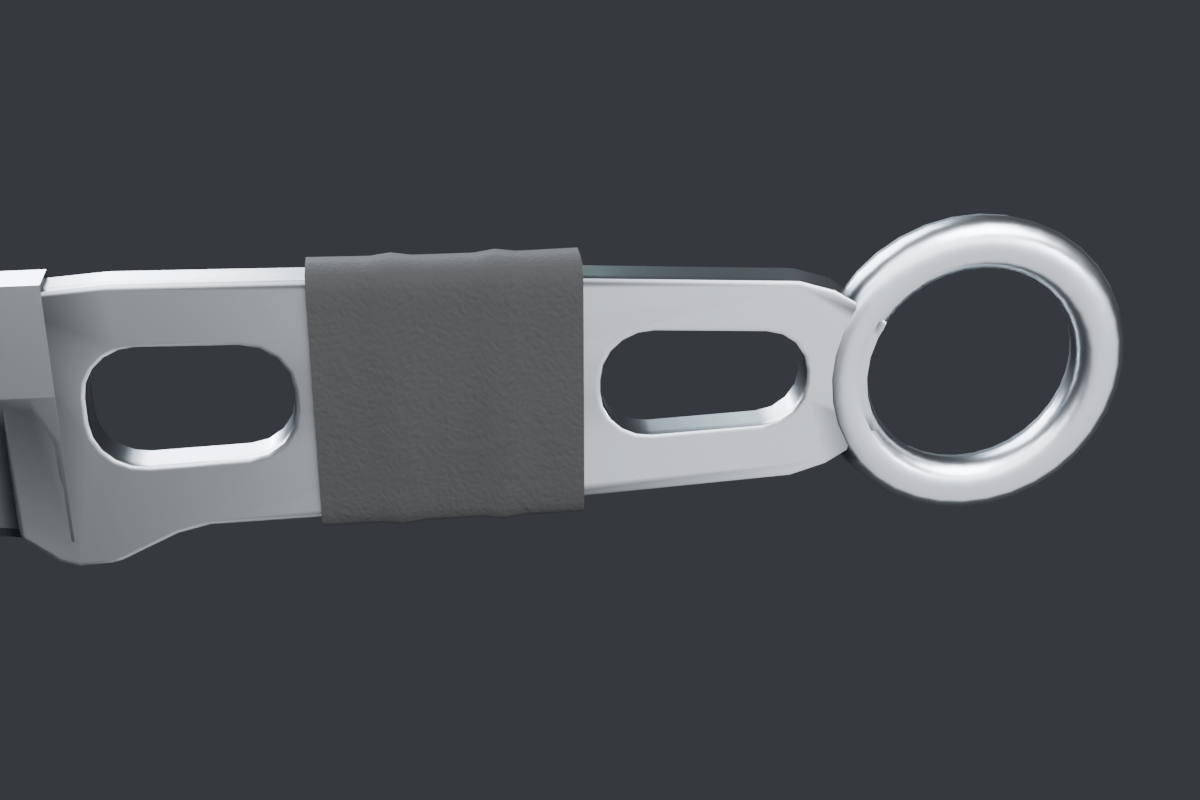
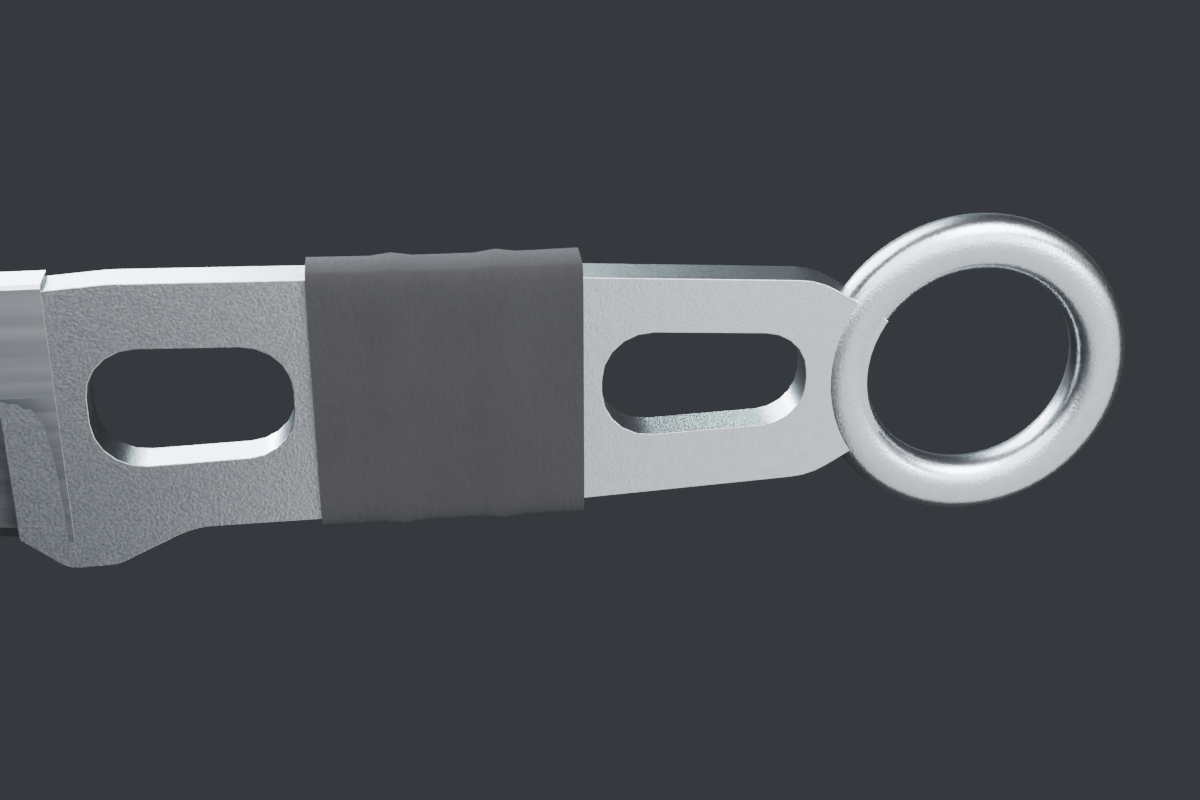
docs(knives): baked textures, lod1, budgets and 1440p close-ups
the contract's budget goes to 15k triangles and 1.5 MB with an optional <id>_lod1.glb; models ship colour, normal and orm maps on a 0..1 uv0 with the steel normal map on knife_blade. new contact sheets, 20 blender close-ups and three.js shots with finishes.

diff --git a/docs/assets/knives.md b/docs/assets/knives.md
@@ -4,22 +4,28 @@ All 20 knives in `public/knives/<id>.glb` are original geometry built by
 committed Blender scripts. Nothing is imported: no Valve or Counter-Strike
 meshes, textures or screenshots were downloaded or used. Each knife follows the
 real-world knife CS2 patterned it on (listed below) plus CS2's published item
-descriptions, the same way the firearms follow real guns. The only texture maps
-are small generated ones (pebble, checkering, G10 grain, paracord braid, wood
-grain), all made with numpy in `klib.py`.
+descriptions, the same way the firearms follow real guns. Every texture is
+baked by the build script from procedural shaders; no texture library or photo
+is used.
 
-The files follow [the knife asset contract](knife-contract.md). The runtime
-still builds the old procedural knives (`src/cosmetics/ProceduralKnife.ts`)
-until the viewmodel switches over.
+The files follow [the knife asset contract](knife-contract.md). Each knife
+ships as `<id>.glb` (LOD0, first person) and `<id>_lod1.glb` (about 40% of the
+triangles and 512 px textures, for third person) with the same nodes, sockets
+and hints.
 
 ## Rebuild
 
 ```bash
-# all 20 raw glbs into .blender-tmp/knives (about 7 s on the M5, ao bake included)
+# all 20 raw glbs (lod0 and lod1) into .blender-tmp/knives, about 5 min on the M5 (texture bakes on the gpu)
 blender -b --factory-startup --python-exit-code 1 -P tools/blender/knives/build_knives.py
-# or a few: ... build_knives.py -- karambit talon [--no-ao] [--quick]
-npx tsx tools/blender/knives/optimize_knives.ts          # -> public/knives/<id>.glb (meshopt, webp 512)
+# or a few: ... build_knives.py -- karambit talon [--no-bake] [--no-lod] [--quick]
+npx tsx tools/blender/knives/optimize_knives.ts          # -> public/knives/<id>.glb (webp up to 2048) and <id>_lod1.glb (512)
 npx vitest run tools/assets/knives.test.ts
+
+# 2560x1440 close-ups: blender, and three.js through the game's loader and tone mapping
+blender -b --factory-startup --python-exit-code 1 -P tools/blender/knives/render_knives.py -- \
+    .blender-tmp/knives .blender-tmp/knives/hires hires --samples 64
+#   /tools/knife-model-preview.html?knife=<id>&view=34|side|back|handle|blade&lod=1&finish=<id> on the dev server
 
 # preview sheets (tiles at one scale, a few minutes at 48 samples on the M5)
 blender -b --factory-startup --python-exit-code 1 -P tools/blender/knives/render_knives.py -- \
@@ -27,8 +33,9 @@ blender -b --factory-startup --python-exit-code 1 -P tools/blender/knives/render
 node tools/blender/weapons/compress_previews.mjs .blender-tmp/knives/final docs/screenshots/knives 1800
 ```
 
-`--quick` skips the bake and writes a side and 3/4 render per knife to
-`.blender-tmp/knives/quick/`. The export is deterministic.
+`--no-bake` exports plain materials (for geometry work, seconds instead of
+minutes); `--quick` also skips LOD1 and writes a side and 3/4 render per knife
+to `.blender-tmp/knives/quick/`.
 
 ## How they are built
 
@@ -66,14 +73,37 @@ node tools/blender/weapons/compress_previews.mjs .blender-tmp/knives/final docs/
   above the handle's bottom at every x. The backspacer is then carved to clear
   the closed edge (`back_line()`). The closed tang and any flipper tab stick out
   at the pivot end, as on the real knives.
-- **Materials** are the five contract names. Blades are satin steel with a
-  brighter polished edge; the finish system replaces them anyway.
-- **Ambient occlusion** is baked with Cycles into `COLOR_0` (floor 0.32). The
-  static body is baked with everything in place; blades on `blade_pivot` and
-  the balisong handles are baked on their own so they don't carry shadows
-  into other poses.
-- **UV0** is cylindrical on lofts, planar on scales and box-projected
-  elsewhere, 3 cm per tile, for the handle textures.
+- **Resolution for the viewmodel.** A knife can fill half of a 1440p screen, so
+  curves get a point every 1.1 mm (`CURVE_STEP`), blades twice the stations
+  (hollow grinds five rows), round sections, rings, pins and lathes 1.8 times
+  the segments, fillets up to ten segments per corner. Scales are domed with
+  rows packed toward the edges and a rounded 0.3 to 0.45 mm edge; guards,
+  bolsters, tangs and clips are bevelled with hardened normals; the blade's
+  spine is eased by a 0.4 mm chamfer row. Grind lines, the edge bevel and
+  swedges stay crisp on purpose.
+- **Materials** are the five contract names, split into three texture sets:
+  steel (`knife_blade`, `knife_edge`), handle (`knife_handle`) and fittings
+  (`knife_metal`, `knife_accent`). Each set has its own 0..1 UV atlas in UV0
+  (`kbake.unwrap()`: smart project of that set's faces across every mesh,
+  packed) and three images: base colour, a tangent-space normal map and an ORM
+  map (glTF occlusion in R, roughness in G, metalness in B). Materials read the
+  maps at factor 1. The blade's normal map is on `knife_blade` as its
+  `normalTexture`, so the finish system can keep it when it swaps the colour.
+- **Baked detail** (`kbake.py`). Each material's bake source is a Cycles shader
+  with a high-resolution procedural height field and colour: satin grain on
+  the steel, a finer polish on the edge, bead blast on fittings, fine G10 weave
+  and fibres, pebbled rubber, diamond checkering on the M9, flowing wood grain
+  with figure and pores, ivory grain, a woven paracord sheath, crepe grip tape.
+  Cycles bakes it onto the game mesh as the normal map, bakes ambient
+  occlusion from the real geometry (screws in their counterbores, pins,
+  guards against grips, teeth, windows, rings; 1 cm distance, 48 samples),
+  roughness, metalness and base colour. Handle normal maps are 2048 px
+  (1024 for the M9's checkering and the paracord, whose regular patterns
+  already hold at 1024 and cost four times as much at 2048 after WebP);
+  everything else is 1024. Vertex colours are gone; AO is in the ORM.
+- **LOD1** is a collapse decimation to 40% of every mesh (UV seams and
+  material borders kept), exported with the same nodes; the optimizer takes
+  its textures down to 512 px.
 
 ## Nodes and hints
 
@@ -102,35 +132,75 @@ start of the ring on ring knives), `handleHeight` is across Y at the grip and
 itself sits a little short of it and lower. `bladeHeight` is the widest
 spine-to-edge distance.
 
-### Sockets and budgets
+### Sockets
 
 Positions in millimetres in the knife frame (three.js axes). All sockets and
-pivots have z = 0.
+pivots have z = 0. These are what the grips were fitted to
+(`tools/assets/gripFit.ts`); `tools/assets/knives.test.ts` pins them and the
+userData hints to within 1 mm of these values.
 
-| knife | tris | size | `socket_grip` | `socket_tip` | pivots | `socket_ring` |
-|---|---:|---:|---|---|---|---|
-| bayonet | 6,282 | 116 KB | -62, 18 | 180, 16.5 | | |
-| m9_bayonet | 3,998 | 94 KB | -63, 19 | 190, 17 | | |
-| karambit | 3,818 | 96 KB | -43, 6.3 | 71.3, -30.7 | | -99.8, -22.4 (inner r 11.5) |
-| butterfly | 6,514 | 161 KB | -64, 11.5 | 102, 10.5 | safe -6.5, 18.2; bite -6.5, 4.7 | |
-| flip | 3,870 | 103 KB | -62, 14.5 | 100, 13.5 | -9, 15.9 | |
-| gut | 3,132 | 77 KB | -58, 16 | 100, 12 | | |
-| huntsman | 4,010 | 90 KB | -62, 19 | 155, 18 | | |
-| falchion | 4,658 | 113 KB | -66, 13.8 | 128, 30 | -8, 14.7 | |
-| shadow_daggers | 3,074 | 82 KB | -24, 13 | 66, 13 | tee -24, 13 | |
-| bowie | 2,936 | 54 KB | -60, 20 | 185, 19 | | |
-| navaja | 3,918 | 72 KB | -62, 9.4 | 105, 13 | -8, 9.5 | |
-| stiletto | 4,222 | 77 KB | -70, 8 | 125, 8 | -11, 8.6 | |
-| talon | 4,974 | 115 KB | -42, 7.9 | 64.3, -24.4 | -8, 11.5 | -95.5, -15.3 (inner r 11.5) |
-| ursus | 4,052 | 106 KB | -62, 16 | 108, 16.5 | -9, 17.1 | |
-| classic | 4,832 | 98 KB | -63, 19 | 200, 17 | | |
-| paracord | 3,428 | 64 KB | -52, 16 | 130, 19.5 | | |
-| survival | 4,054 | 96 KB | -66, 17 | 130, 13 | | |
-| nomad | 4,658 | 115 KB | -62, 15.5 | 104, 20 | -8, 15.8 | |
-| skeleton | 3,300 | 86 KB | -44, 14 | 100, 12 | | -97, 14 (inner r 11) |
-| kukri | 4,252 | 62 KB | -62, 17 | 250, -14 | | |
+| knife | `socket_grip` | `socket_tip` | pivots | `socket_ring` |
+|---|---|---|---|---|
+| bayonet | -62, 18 | 180, 16.5 |  |  |
+| m9_bayonet | -63, 19 | 190, 17 |  |  |
+| karambit | -43, 6.3 | 71.3, -30.7 |  | -99.8, -22.4 (inner r 11.5) |
+| butterfly | -64, 11.5 | 102, 10.5 | safe -6.5, 18.2; bite -6.5, 4.7 |  |
+| flip | -62, 14.5 | 100, 13.5 | -9, 15.9 |  |
+| gut | -58, 16 | 100, 12 |  |  |
+| huntsman | -62, 19 | 155, 18 |  |  |
+| falchion | -66, 13.8 | 128, 30 | -8, 14.7 |  |
+| shadow_daggers | -24, 13 | 66, 13 | tee -24, 13 |  |
+| bowie | -60, 20 | 185, 19 |  |  |
+| navaja | -62, 9.4 | 105, 13 | -8, 9.5 |  |
+| stiletto | -70, 8 | 125, 8 | -11, 8.6 |  |
+| talon | -42, 7.9 | 64.3, -24.4 | -8, 11.5 | -95.5, -15.3 (inner r 11.5) |
+| ursus | -62, 16 | 108, 16.5 | -9, 17.1 |  |
+| classic | -63, 19 | 200, 17 |  |  |
+| paracord | -52, 16 | 130, 19.5 |  |  |
+| survival | -66, 17 | 130, 13 |  |  |
+| nomad | -62, 15.5 | 104, 20 | -8, 15.8 |  |
+| skeleton | -44, 14 | 100, 12 |  | -97, 14 (inner r 11) |
+| kukri | -62, 17 | 250, -14 |  |  |
+
+### Budgets
+
+LOD0 is at most 15,000 triangles and 1.5 MB, LOD1 at most 400 KB with under
+half the triangles. "handle px" is the handle normal map's size.
+
+| knife | LOD0 tris | handle px | LOD0 textures | LOD0 file | LOD1 tris | LOD1 textures | LOD1 file |
+|---|---:|---:|---:|---:|---:|---:|---:|
+| bayonet | 13,750 | 2048 | 827 KB | 948 KB | 5,500 | 142 KB | 205 KB |
+| flip | 10,376 | 2048 | 1360 KB | 1481 KB | 4,148 | 90 KB | 155 KB |
+| gut | 6,060 | 2048 | 836 KB | 899 KB | 2,424 | 149 KB | 184 KB |
+| karambit | 10,194 | 2048 | 1170 KB | 1279 KB | 4,076 | 123 KB | 182 KB |
+| m9_bayonet | 9,410 | 1024 | 881 KB | 975 KB | 3,764 | 213 KB | 265 KB |
+| huntsman | 7,644 | 2048 | 952 KB | 1030 KB | 3,056 | 180 KB | 225 KB |
+| butterfly | 9,730 | 1024 | 400 KB | 529 KB | 3,890 | 104 KB | 167 KB |
+| falchion | 12,996 | 2048 | 1289 KB | 1437 KB | 5,198 | 81 KB | 160 KB |
+| shadow_daggers | 5,656 | 2048 | 842 KB | 908 KB | 2,262 | 146 KB | 182 KB |
+| bowie | 5,844 | 2048 | 653 KB | 716 KB | 2,336 | 99 KB | 136 KB |
+| navaja | 10,920 | 2048 | 610 KB | 733 KB | 4,366 | 93 KB | 161 KB |
+| stiletto | 10,510 | 2048 | 553 KB | 670 KB | 4,202 | 88 KB | 154 KB |
+| talon | 13,802 | 2048 | 355 KB | 507 KB | 5,518 | 104 KB | 182 KB |
+| ursus | 10,838 | 2048 | 1390 KB | 1517 KB | 4,334 | 92 KB | 161 KB |
+| classic | 9,396 | 2048 | 997 KB | 1087 KB | 3,758 | 110 KB | 158 KB |
+| paracord | 6,248 | 1024 | 930 KB | 1014 KB | 2,498 | 319 KB | 376 KB |
+| survival | 7,614 | 2048 | 1311 KB | 1389 KB | 3,044 | 125 KB | 169 KB |
+| nomad | 11,954 | 2048 | 1339 KB | 1477 KB | 4,780 | 94 KB | 168 KB |
+| skeleton | 7,524 | 2048 | 363 KB | 437 KB | 3,008 | 71 KB | 112 KB |
+| kukri | 8,402 | 2048 | 753 KB | 830 KB | 3,360 | 93 KB | 136 KB |
 
 Folder tips are given open; closed, a tip lands at `(2px - x, 2py - y)`.
+
+Close-ups at 2560x1440 (stored at 1280 px) of every knife in Blender are in
+`docs/screenshots/knives/hq/blender_<id>.png`. The same models in three.js,
+through the game's loader, lights and ACES tone mapping
+(`tools/knife-model-preview.html`), plus LOD1 and two finishes:
+
+![All 20 in three.js](../screenshots/knives/models_threejs.png)
+![Karambit LOD1 in three.js](../screenshots/knives/hq/threejs_karambit_lod1.png)
+![Karambit, Case Hardened](../screenshots/knives/hq/threejs_karambit_case_hardened.png)
+![M9 bayonet, Doppler](../screenshots/knives/hq/threejs_m9_doppler.png)
 
 ![All 20 knives, side view, one scale](../screenshots/knives/models_side.png)
 ![3/4 view, one camera distance](../screenshots/knives/models_34.png)
@@ -321,5 +391,7 @@ Close-ups:
   non-crossing direction.
 - **Hidden mechanisms** (liner and back locks, detents, springs inside
   handles) are only shown where they are visible from outside.
-- **Textures.** Handles use small generated normal or colour maps with tiling
-  UVs, which the optimizer keeps as float UVs (a few KB more per knife).
+- **Detail is baked from procedural height fields,** not from sculpted
+  high-poly meshes. Everything with a silhouette (teeth, jimping, screws with
+  torx and hex sockets, pivots, cut-outs, cord wraps) is real geometry; only
+  surface texture lives in the normal maps.

diff --git a/docs/assets/knife-contract.md b/docs/assets/knife-contract.md
@@ -9,7 +9,9 @@ has to change all three.
 - `public/knives/<id>.glb`, one per knife id in `src/combat/knives.ts`, built by
   committed bpy scripts in `tools/blender/knives/` and optimized with
   `tools/assets/optimize-glb.ts` (meshopt, WebP textures).
-- Budget: at most 8,000 triangles and 200 KB per knife.
+- Budget: LOD0 at most 15,000 triangles and 1.5 MB per knife (textures
+  included). `public/knives/<id>_lod1.glb` is the third-person LOD: the same
+  nodes, sockets and userData at under half the triangles, at most 400 KB.
 - All geometry is original: modelled from real-world knife layouts, with CS2
   used only as visual reference. No downloaded meshes or textures.
 
@@ -66,4 +68,7 @@ Material names are the hook for the finish system.
 Finish shaders work in knife space, not UV space: the finish system computes
 blade coordinates from the vertex position in the knife root's frame
 (`u = x / bladeLength`, `v` from spine to edge using `bladeHeight`), so models
-don't need special UVs. Models still ship a sane UV0 for handle textures.
+don't need special UVs. Models ship a 0..1 UV0 atlas with baked base colour,
+normal and ORM (occlusion, roughness, metalness) maps on every material; the
+steel's normal map is `knife_blade`'s `normalMap`, so a finish that replaces
+the blade material can keep it (and `aoMap`, the ORM image, likewise).
